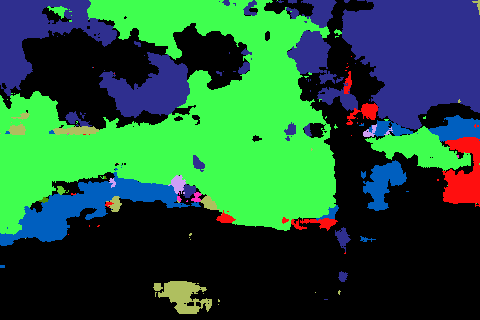
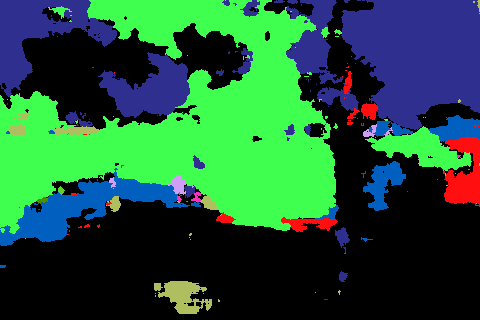
More predictions and metrics

diff --git a/main.py b/main.py
@@ -6,7 +6,7 @@ from lib.BatchSegNet import BatchSegNet
 def main():
   dataset_directory = './datasets/unreal_randomyaw/'
   net = BatchSegNet(dataset_directory)
-  net.train(num_iterations=80000, learning_rate=1e-2)
+  net.train(num_iterations=90000, learning_rate=1e-2)
   # net.test()
 
 if __name__ == "__main__":
